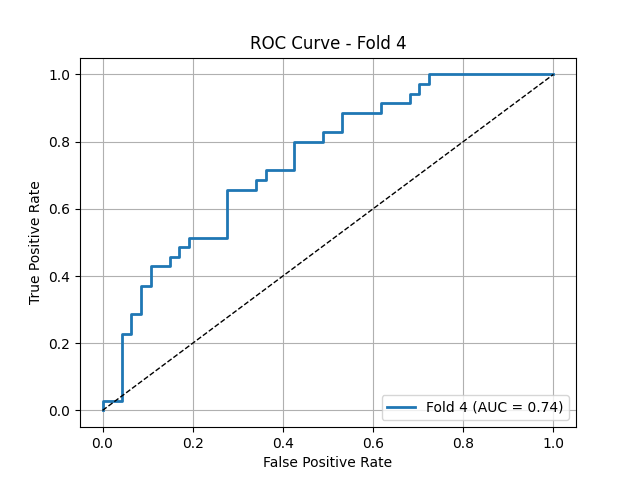
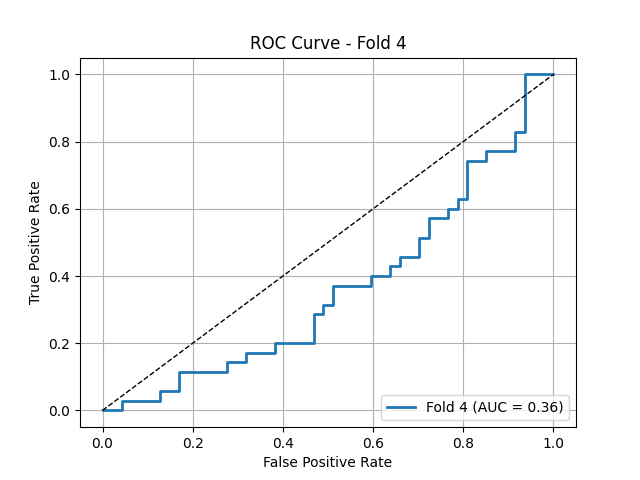
score weight is changed 2 to 0_5

diff --git a/multi_head_models.py b/multi_head_models.py
@@ -287,8 +287,8 @@ class BinaryClassification(pl.LightningModule):
         self.final_layer = FCNetwork(input_size= 4*self.output_size, hidden_sizes=[8, 12, 5], output_size= 1)
 
 
-        self.loss_fn = FocalLoss(gamma= 1.5) 
-        self.loss_fn2 = nn.BCEWithLogitsLoss(pos_weight=torch.tensor([2.0])) #FocalLoss()
+        self.loss_fn = FocalLoss() 
+        self.loss_fn2 = nn.BCEWithLogitsLoss(pos_weight=torch.tensor([5.0])) #FocalLoss()
 
         self.accuracy_metric = BinaryAccuracy()  # Accuracy metric using TorchMetrics
         self.auc_metric = torchmetrics.AUROC(task="binary")
@@ -344,9 +344,9 @@ class BinaryClassification(pl.LightningModule):
             x, y = batch 
             y2 = y.unsqueeze(-1).repeat((1, self.output_size))
             scores, scores_tail = self.forward(x)  
-            loss = self.loss_fn(scores, y.float())*2 + self.loss_fn(scores_tail[0], y2.float())*0.01 + \
+            loss = self.loss_fn(scores, y.float())*0.5 + self.loss_fn(scores_tail[0], y2.float())*0.01 + \
                         self.loss_fn(scores_tail[1], y2.float()) + self.loss_fn(scores_tail[2], y2.float()) + self.loss_fn(scores_tail[3], y2.float()) +\
-                        self.loss_fn2(scores, y.float())*2 + self.loss_fn2(scores_tail[0], y2.float())*0.01 + \
+                        self.loss_fn2(scores, y.float())*0.5 + self.loss_fn2(scores_tail[0], y2.float())*0.01 + \
                         self.loss_fn2(scores_tail[1], y2.float()) + self.loss_fn2(scores_tail[2], y2.float()) + self.loss_fn2(scores_tail[3], y2.float())
             
         else: 
